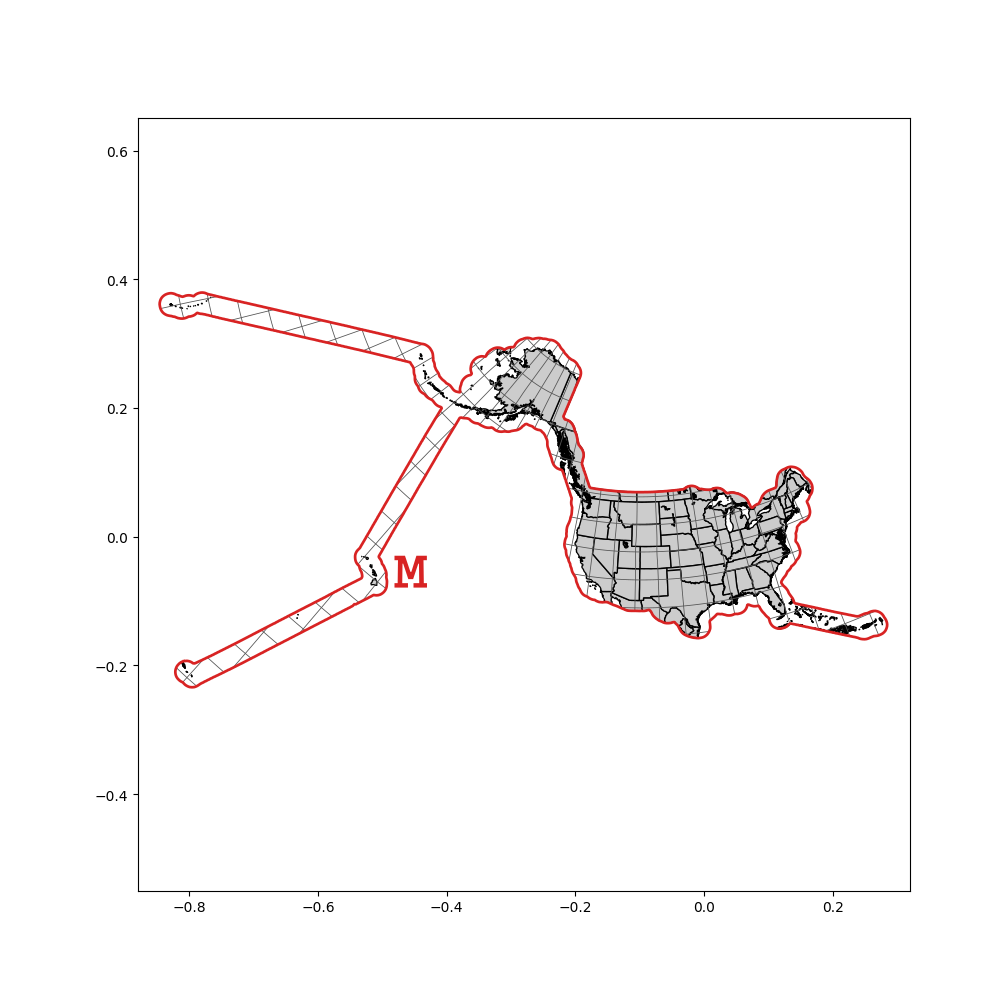
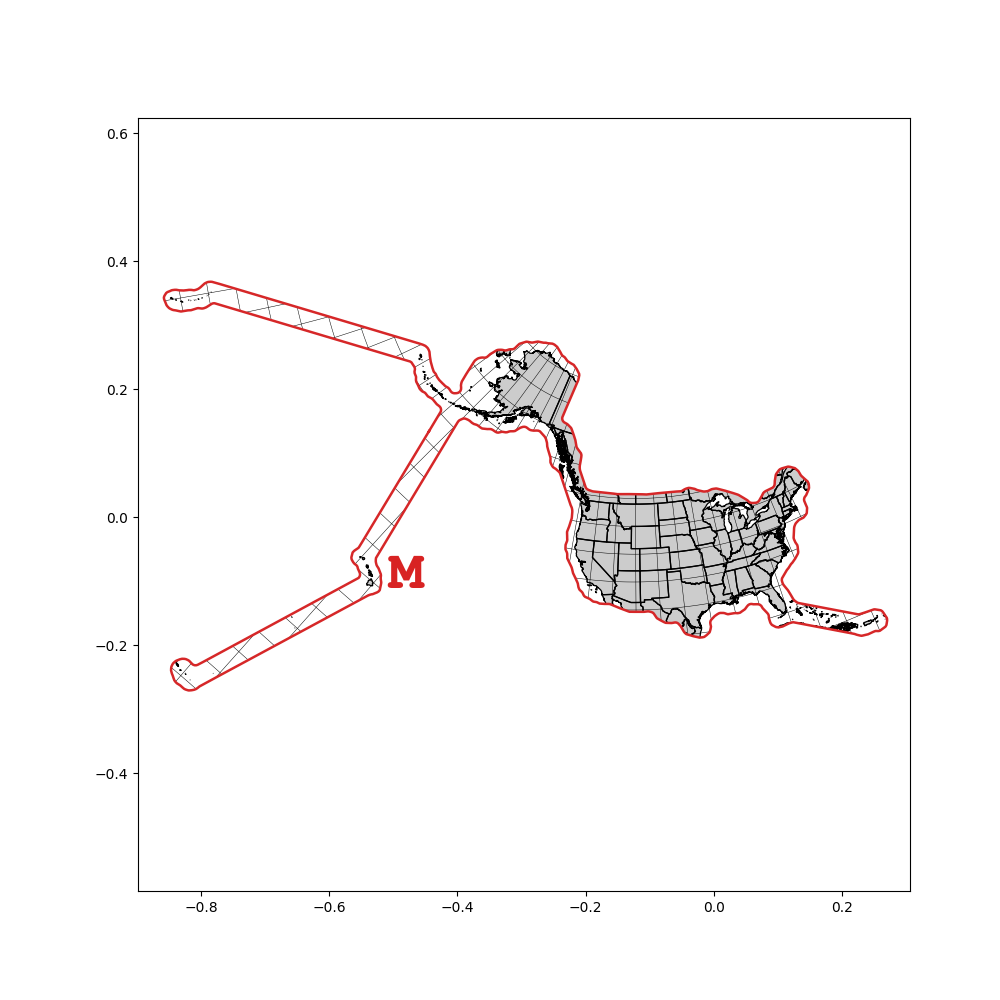
Fixing inaccurate numbers caused by propogating errors in the algorithm, new code will ship for this eventually

diff --git a/mdc/index.html b/mdc/index.html
@@ -45,6 +45,7 @@
                     </div>
                     </br>
                     <div class="body_print">
+[Edit 23 October 2026: Changed some numbers to match a more precise algorithm used.]
 In 2020 I wrote <a class="link" href="https://geobica.com/bl/igp/"><u>an article</u></a> discussing how to minimize the distortion of shape in an equal-area rectangular projection. In other words, I started with a map projection that does not distort area and modified it to minimize how much it distorts shapes and angles, using a more precise mathematical definition. In that article, I contrasted these equal-area projections with the Mercator Projection, a conformal projection, which preserves shape while allowing area to be distorted. This year, I've come up with a way to do the reverse: Starting with a conformal projection and minimizing the distortion of area without losing the preservation of shapes.
 </br>
 </br>
@@ -97,10 +98,10 @@ Recently, however, I came up with a better method for finding conformal projecti
 </br>
 <div style="width=90%;margin:auto;text-align: center;">
 <img class="side_image" src="../im/mdc/us_geoproj.png" width="80%" style="vertical-align: middle;"/>
-<div class="caption" style="width:55%"><i>A conformal projection with minimal distortion through the US and its territories, created with my method. The relative scale along the red line is 1.0, and the minimal scale anywhere in the US is above 0.99, so the difference in scale is less than 1%. A translucent raster was overlaid to show relative distortion, which has a blobby texture as a result of how sampling was done.</i></div>
+<div class="caption" style="width:55%"><i>A conformal projection with minimal distortion through the US and its territories, created with my method. The relative scale along the red line is 1.0, and the minimal scale anywhere in the US is 0.984, so the difference in scale is less than 2%. Shading was overlaid to show relative distortion.</i></div>
 </div>
 </br>
-While the GS50 has a difference in scale of about 4% throughout just the 50 states, I was able to get this below 1% by my method, with comparable results for arbitrarily large portions of the globe. 
+While the GS50 has a difference in scale of about 4% throughout just the 50 states, I was able to get this below 2% by my method, in a way that can be extended to find the minimum possible distortion of a conformal projection over arbitrarily large portions of the globe. 
 </br>
 </br>
 <div class="subtitle_print"><strong>Notation</strong></div>
@@ -113,7 +114,7 @@ In this article I intend to explain my method for finding a conformal map that t
 $\underrightarrow{\hspace{1em}?(z)\hspace{1em}}$
 <img class="side_image" src="../im/mdc/us_after_geoproj.png" width="40%" style="vertical-align: middle;"/>
 </div>
-<div class="caption" style="width:55%"><i>Stereographic projection mapped to GS50. Lines of equal scale are shown.</i></div>
+<div class="caption" style="width:55%"><i>Stereographic projection mapped from $M$ to $W$. Lines of equal scale are shown.</i></div>
 </br>
 </br>
 $f_W:\mathbb{D}\rightarrow W$ denotes the Schwarz-Christoffel Map (a special case of a Riemann Map to a polygon) that takes any point in the unit disk to a point in $W$. $f_M:\mathbb{D}\rightarrow M$ is the comparable mapping to $M$. By the Riemann Mapping Theorem, it is possible to construct both of these such that they are bijective holomorphic mappings, so the function $f_M\circ f_W^{-1}:W\rightarrow M$ defines a conformal map from the stereographic projection to $M$.
@@ -161,7 +162,7 @@ I've implemented an algorithm to derive $f_M$ numerically for a given input of $
 </br>
 <div style="width=90%;margin:auto;text-align: center;">
 <img class="side_image" src="../im/mdc/projection_world.png" width="80%" style="vertical-align: middle;"/>
-<div class="caption" style="width:55%"><i>The maximum difference in relative scale between two points here is 5.442%, betweem the edge and western Mongolia. In terms of area, that region is about 10% smaller than it would be at the scale of the coast.</i></div>
+<div class="caption" style="width:55%"><i>The maximum difference in relative scale between two points here is 12.1%, between the edge and western Kazakhstan. In terms of area, that region is about 23% smaller than it would be at the scale of the boundary just off the coast.</i></div>
 </div>
 </br>
 This method can generate the interpolation points in a matter of minutes on my laptop. To run it yourself, the code can be found at <a class="link" href="https://github.com/geobica/bl/tree/main/mdc">https://github.com/geobica/bl/tree/main/mdc</a>.
